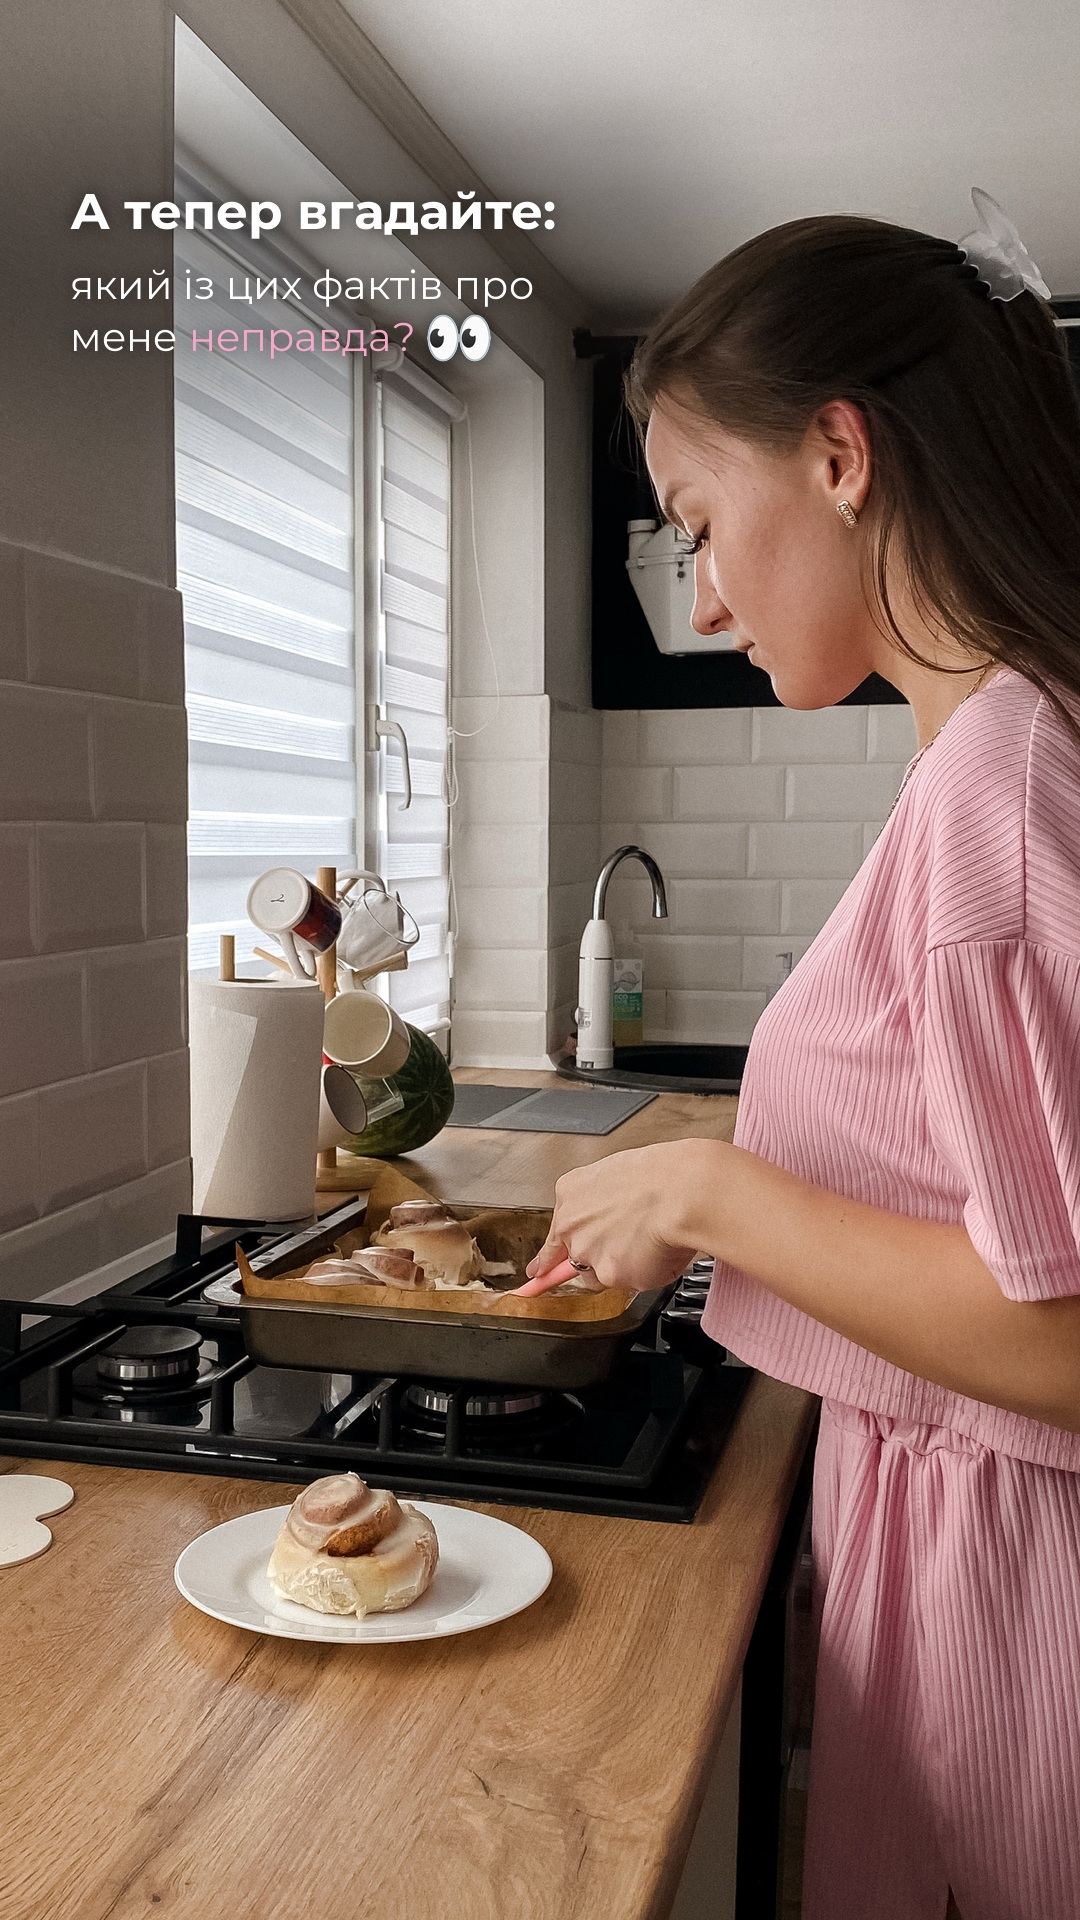
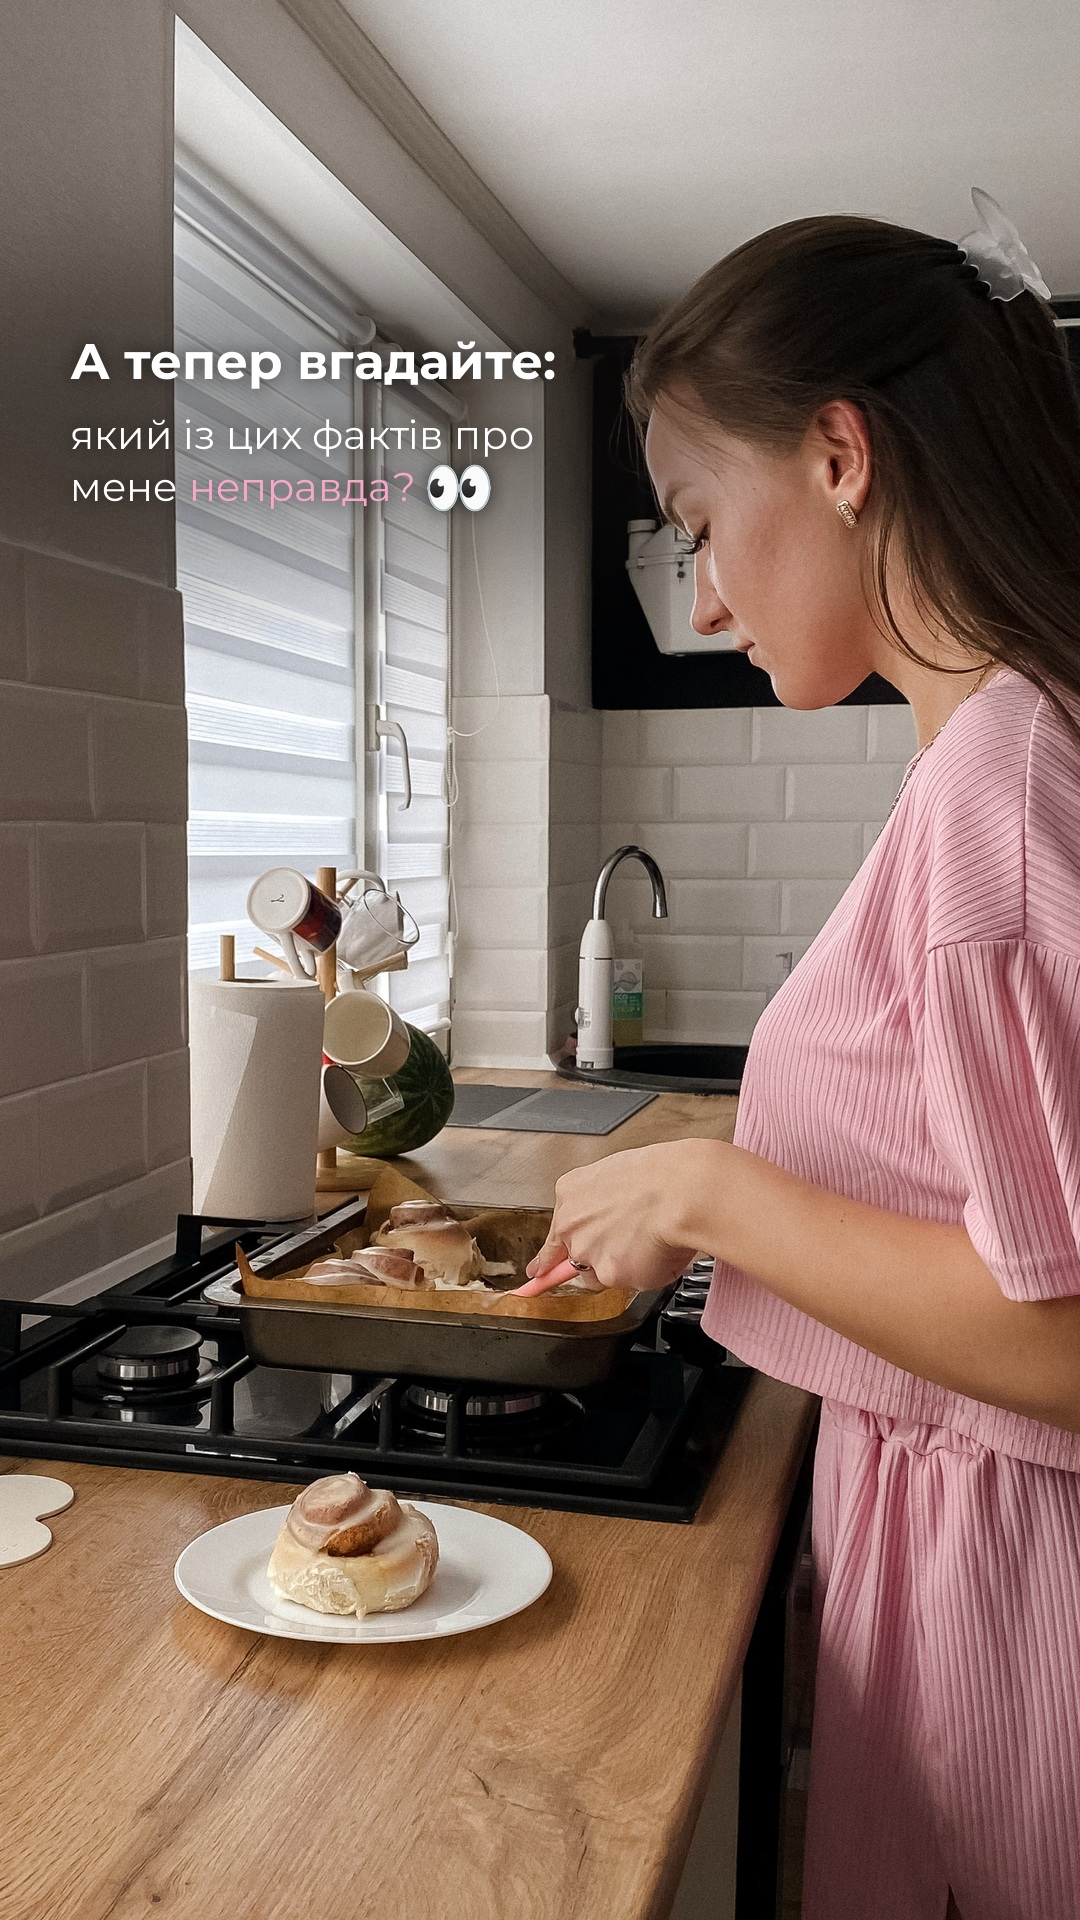
Intro story 3: lower text
Claude-Session: https://claude.ai/code/session_0191xVL2hi5vHUvM1ix6pauC

Changed region(s): [[0.0, 0.0312, 0.6722, 0.3438], [0.5806, 0.1875, 0.6722, 0.2812]]

diff --git a/stories/znaiomstvo/build.py b/stories/znaiomstvo/build.py
@@ -21,5 +21,5 @@ def box(im,y0,y1,label='місце для стікера'):
     d=ImageDraw.Draw(im); return im
 im,y=two(fit(f'{U}/09383c56-image.jpg'),330,'Давно хотіла це зробити…','і нарешті підготувала для вас *допис-знайомство*','🤍',shade=120,big=True); print(1,y); im.save(f'{OUT}/1.jpg',quality=94)
 im,y=two(zoom(f'{U}/10b2af08-image.jpg',1.3,0.45,0.9),200,'Невеличкий тест для вас:','як думаєте, скільки процедур я зробила *за останній рік*?','🤔',shade=130); print(2,y); im.save(f'{OUT}/2.jpg',quality=94)
-im,y=two(fit(f'{U}/6795168f-image.jpg'),180,'А тепер вгадайте:','який із цих фактів про мене *неправда*?','👀',shade=110,mw=560); print(3,y); im.save(f'{OUT}/3.jpg',quality=94)
+im,y=two(fit(f'{U}/6795168f-image.jpg'),330,'А тепер вгадайте:','який із цих фактів про мене *неправда*?','👀',shade=110,mw=560); print(3,y); im.save(f'{OUT}/3.jpg',quality=94)
 im,y=two(fit(f'{U}/6d45aa50-image.jpg'),200,'Правильні відповіді','і ще багато цікавого про мене — у *новому дописі*','👇',shade=140); print(4,y); im.save(f'{OUT}/4.jpg',quality=94)
